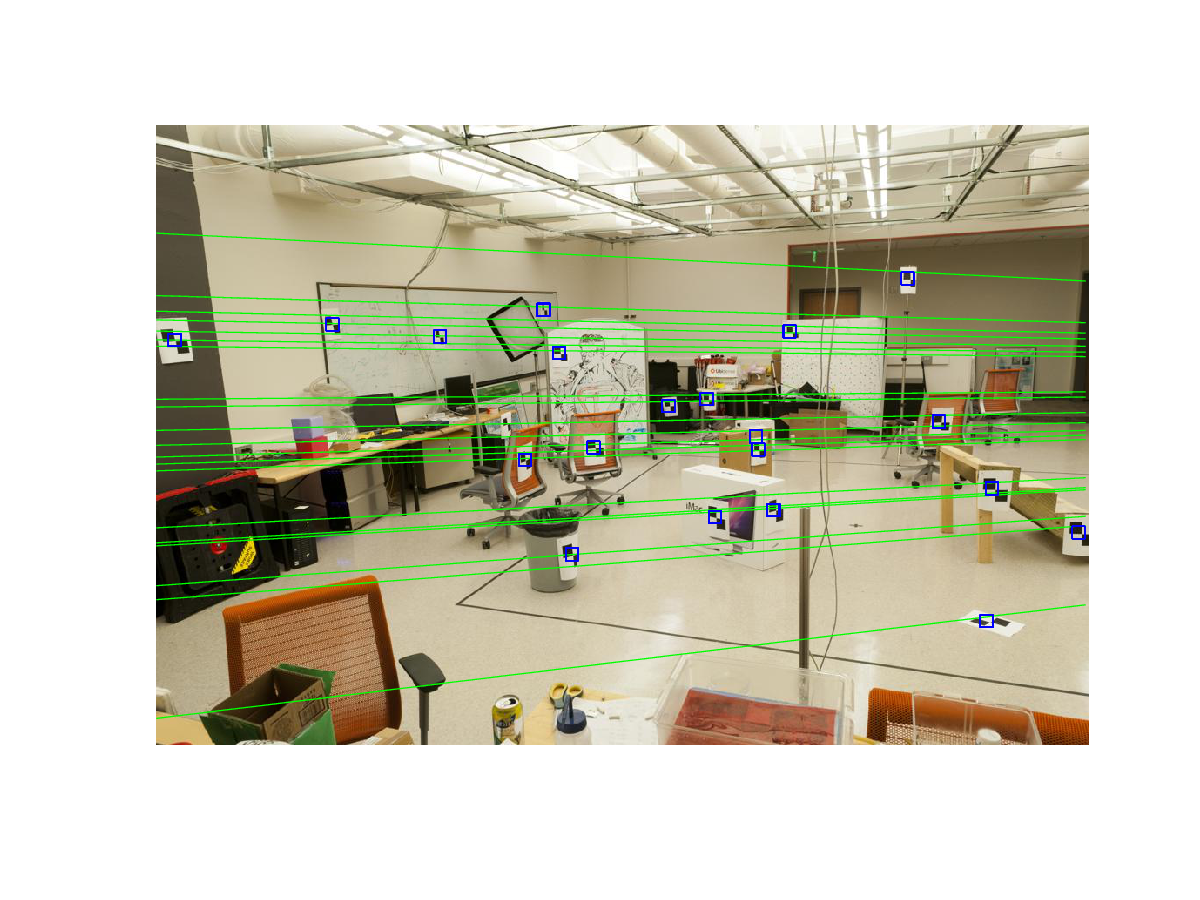
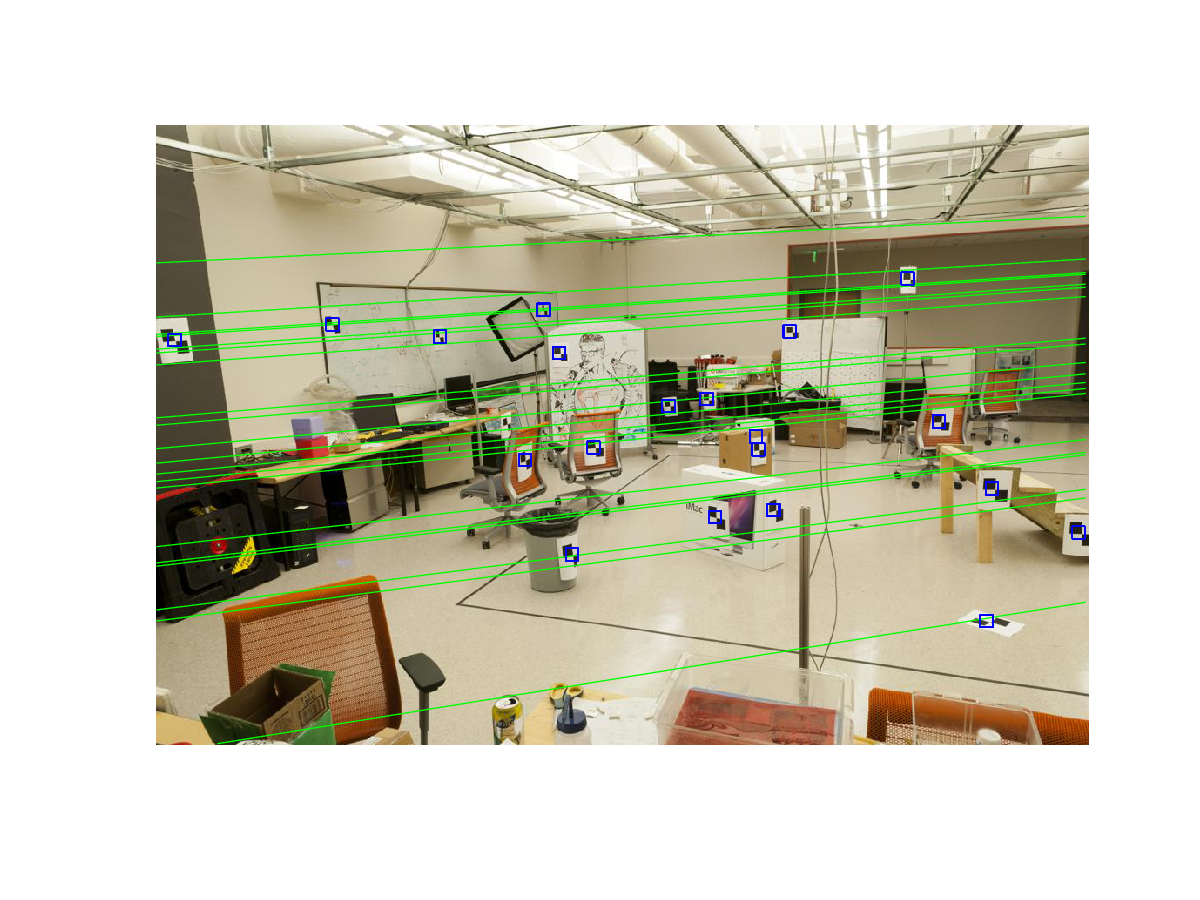
update the norm function

diff --git a/georgiatech_cs4495/ps3_octave/norm_pt.m b/georgiatech_cs4495/ps3_octave/norm_pt.m
@@ -1,6 +1,6 @@
 function [normpt T] = norm_pt(pt)
-    cu = mean(pt(:));
-    cv = mean(pt(:));
+    cu = mean(pt(:, 1));
+    cv = mean(pt(:, 2));
     
     s = 1 / std(pt(:));
     
